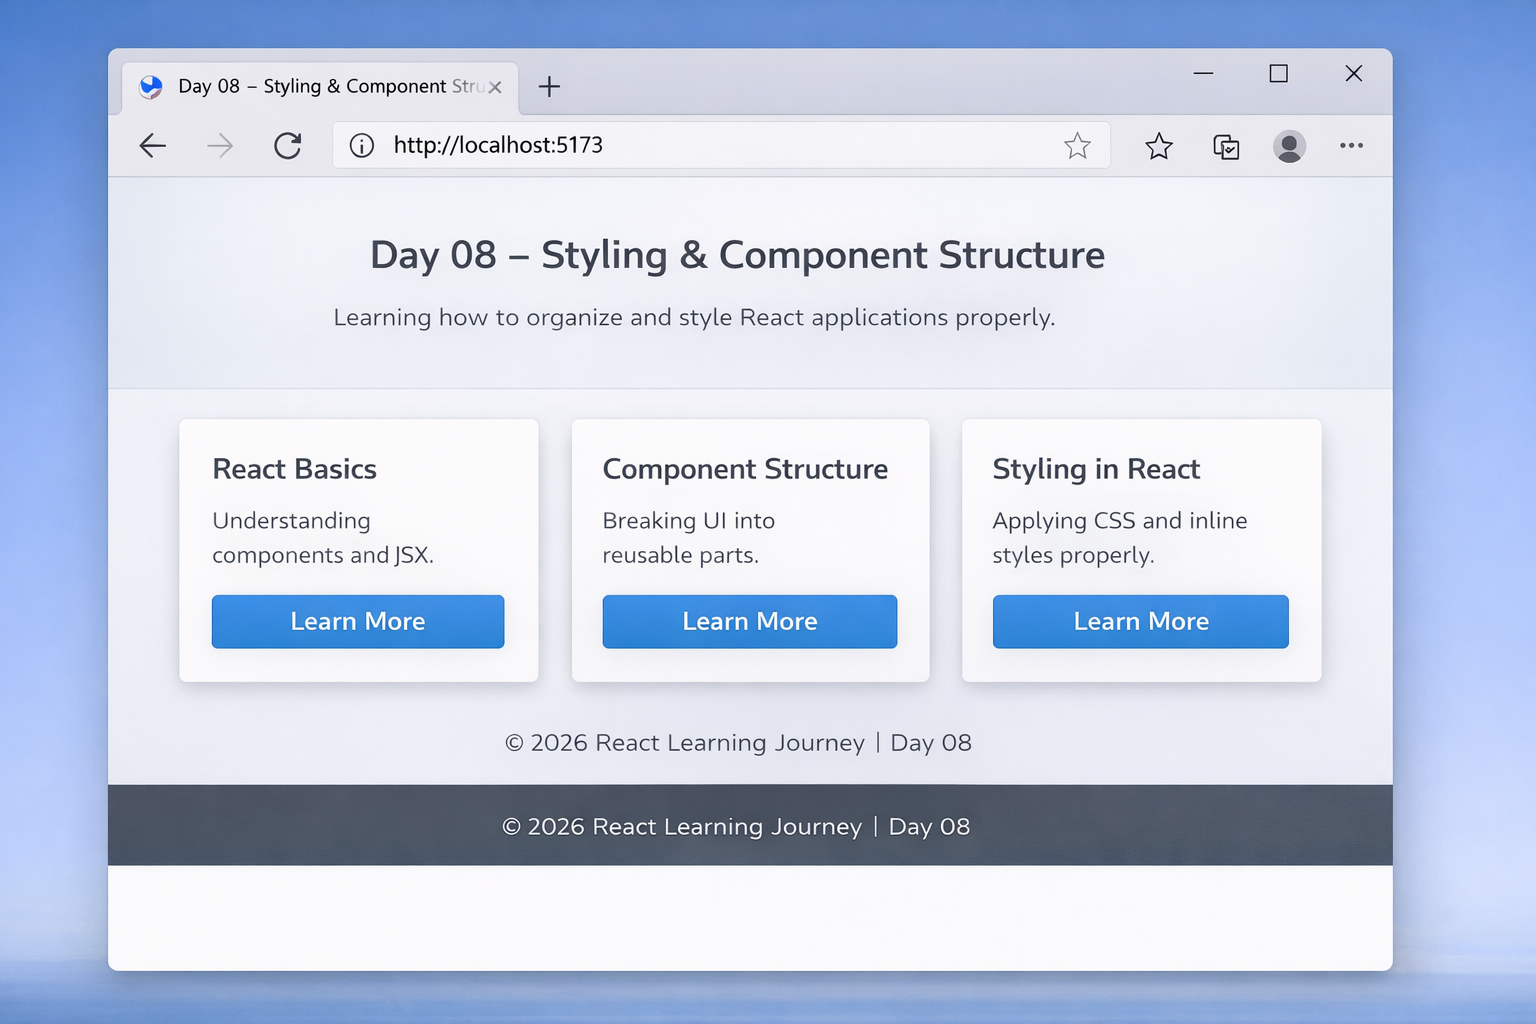
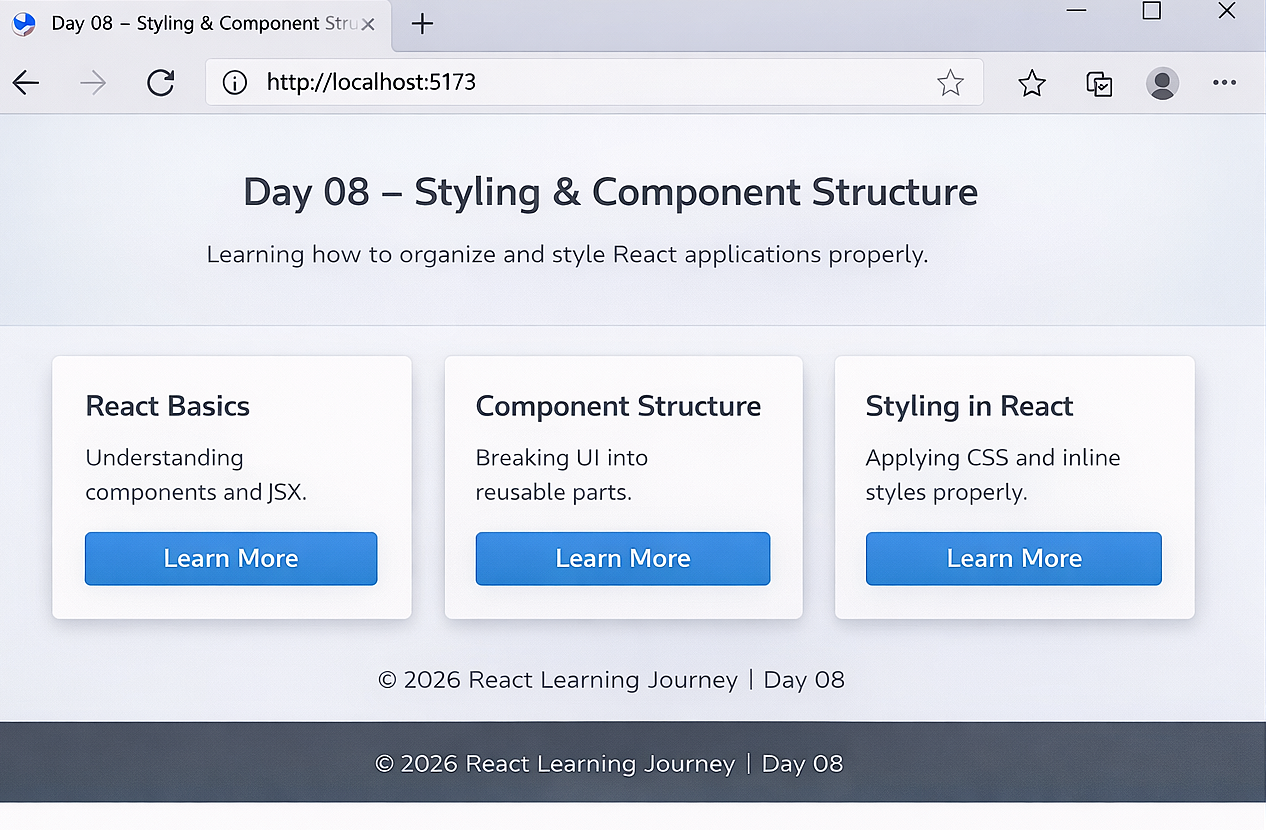
Updated README.md file

diff --git a/Day-08/README.md b/Day-08/README.md
@@ -1,0 +1,156 @@
+<div align="center">
+
+# 📅 Day 08 — Styling & Component Structure
+
+### Organizing React Components & Applying Styling Properly
+
+<img src="https://img.shields.io/badge/Day-08-blue?style=for-the-badge" />
+<img src="https://img.shields.io/badge/Difficulty-Easy-success?style=for-the-badge" />
+<img src="https://img.shields.io/badge/Focus-React%20Styling-orange?style=for-the-badge" />
+<img src="https://img.shields.io/badge/Status-Completed-brightgreen?style=for-the-badge" />
+
+</div>
+
+---
+
+## 🎯 Goal of the Day
+
+The goal of **Day 08** was to understand **how styling works in React** and how to properly **structure components for clean and scalable projects**.
+
+This day focuses on:
+
+- Organizing components properly
+- Separating UI into reusable parts
+- Applying CSS in React
+- Writing cleaner project structure
+
+---
+
+## 🧠 Concepts Learned
+
+### Styling in React
+
+- Inline Styling
+- CSS Stylesheets
+- ClassName usage
+- Dynamic styling based on state
+
+### Component Structure
+
+- Breaking UI into smaller components
+- Folder organization
+- Reusable components
+- Clean separation of concerns
+
+---
+
+## 🛠 What I Built
+
+I created a **React UI project** demonstrating:
+
+- Multiple structured components
+- Clean folder hierarchy
+- Styled components using CSS
+- Reusable UI sections
+
+The focus was not just UI — but writing **clean and maintainable React code**.
+
+---
+
+## 📁 Folder Structure
+
+Day-08/<br>
+├─ README.md <br>
+└─ frontend/<br>
+&nbsp;&nbsp;&nbsp;&nbsp;├─ src/<br>
+&nbsp;&nbsp;&nbsp;&nbsp;│&nbsp;&nbsp;&nbsp;&nbsp;├─ components/<br>
+&nbsp;&nbsp;&nbsp;&nbsp;│&nbsp;&nbsp;&nbsp;&nbsp;│&nbsp;&nbsp;&nbsp;&nbsp;├─ Header.jsx<br>
+&nbsp;&nbsp;&nbsp;&nbsp;│&nbsp;&nbsp;&nbsp;&nbsp;│&nbsp;&nbsp;&nbsp;&nbsp;├─ Card.jsx<br>
+&nbsp;&nbsp;&nbsp;&nbsp;│&nbsp;&nbsp;&nbsp;&nbsp;│&nbsp;&nbsp;&nbsp;&nbsp;└─ Footer.jsx<br>
+&nbsp;&nbsp;&nbsp;&nbsp;│&nbsp;&nbsp;&nbsp;&nbsp;├─ App.jsx<br>
+&nbsp;&nbsp;&nbsp;&nbsp;│&nbsp;&nbsp;&nbsp;&nbsp;└─ style.css<br>
+&nbsp;&nbsp;&nbsp;&nbsp;└─ index.html<br>
+
+---
+
+## 🧩 Why Component Structure Matters
+
+- Improves readability
+- Makes code reusable
+- Easier debugging
+- Scalable for large projects
+
+React applications grow fast — clean structure prevents chaos.
+
+---
+
+## 🖼 Project Preview
+
+<img src="./styling-structure-preview.png" alt="Styling and Component Structure Preview" width="650" align="center"/>
+
+<h2>📝 Notes & Observations</h2>
+
+Styling should not be mixed randomly inside components
+
+Reusable components reduce code duplication
+
+Folder structure improves long-term maintainability
+
+Clean structure makes collaboration easier
+
+<h3>💡 Key Takeaways</h3>
+
+React projects must be organized early
+
+Small components are better than one large file
+
+CSS separation improves clarity
+
+Structure is as important as logic
+
+<h3>>🎯 Interview Preparation (Day 08 Level)</h3>
+                                             
+Q1. What are different ways to style a React component?
+
+Inline styles, external CSS files, CSS modules, and styled-components.
+
+Q2. Why break UI into components?
+
+To improve reusability, readability, and maintainability.
+
+Q3. What is the benefit of reusable components?
+
+They reduce duplication and make scaling easier.
+
+Q4. What is separation of concerns in React?
+
+Keeping logic, structure, and styling properly organized.
+
+🔗 Helpful References
+
+🔗 https://react.dev/learn
+
+🔗 https://developer.mozilla.org/en-US/docs/Web/CSS
+
+🔗 https://react.dev/learn/sharing-state-between-components
+
+## ⏭ What’s Next?
+
+<div align="center">
+
+### 👉 **Day 09 – Props in Depth**
+
+Learn how:
+
+- Passing data between components
+- Understanding parent-child relationship
+- Reusable dynamic components
+- Component communication
+
+<br/>
+
+[➡ Go to Day 09](../Day-09/README.md)
+
+</div>
+
+---
